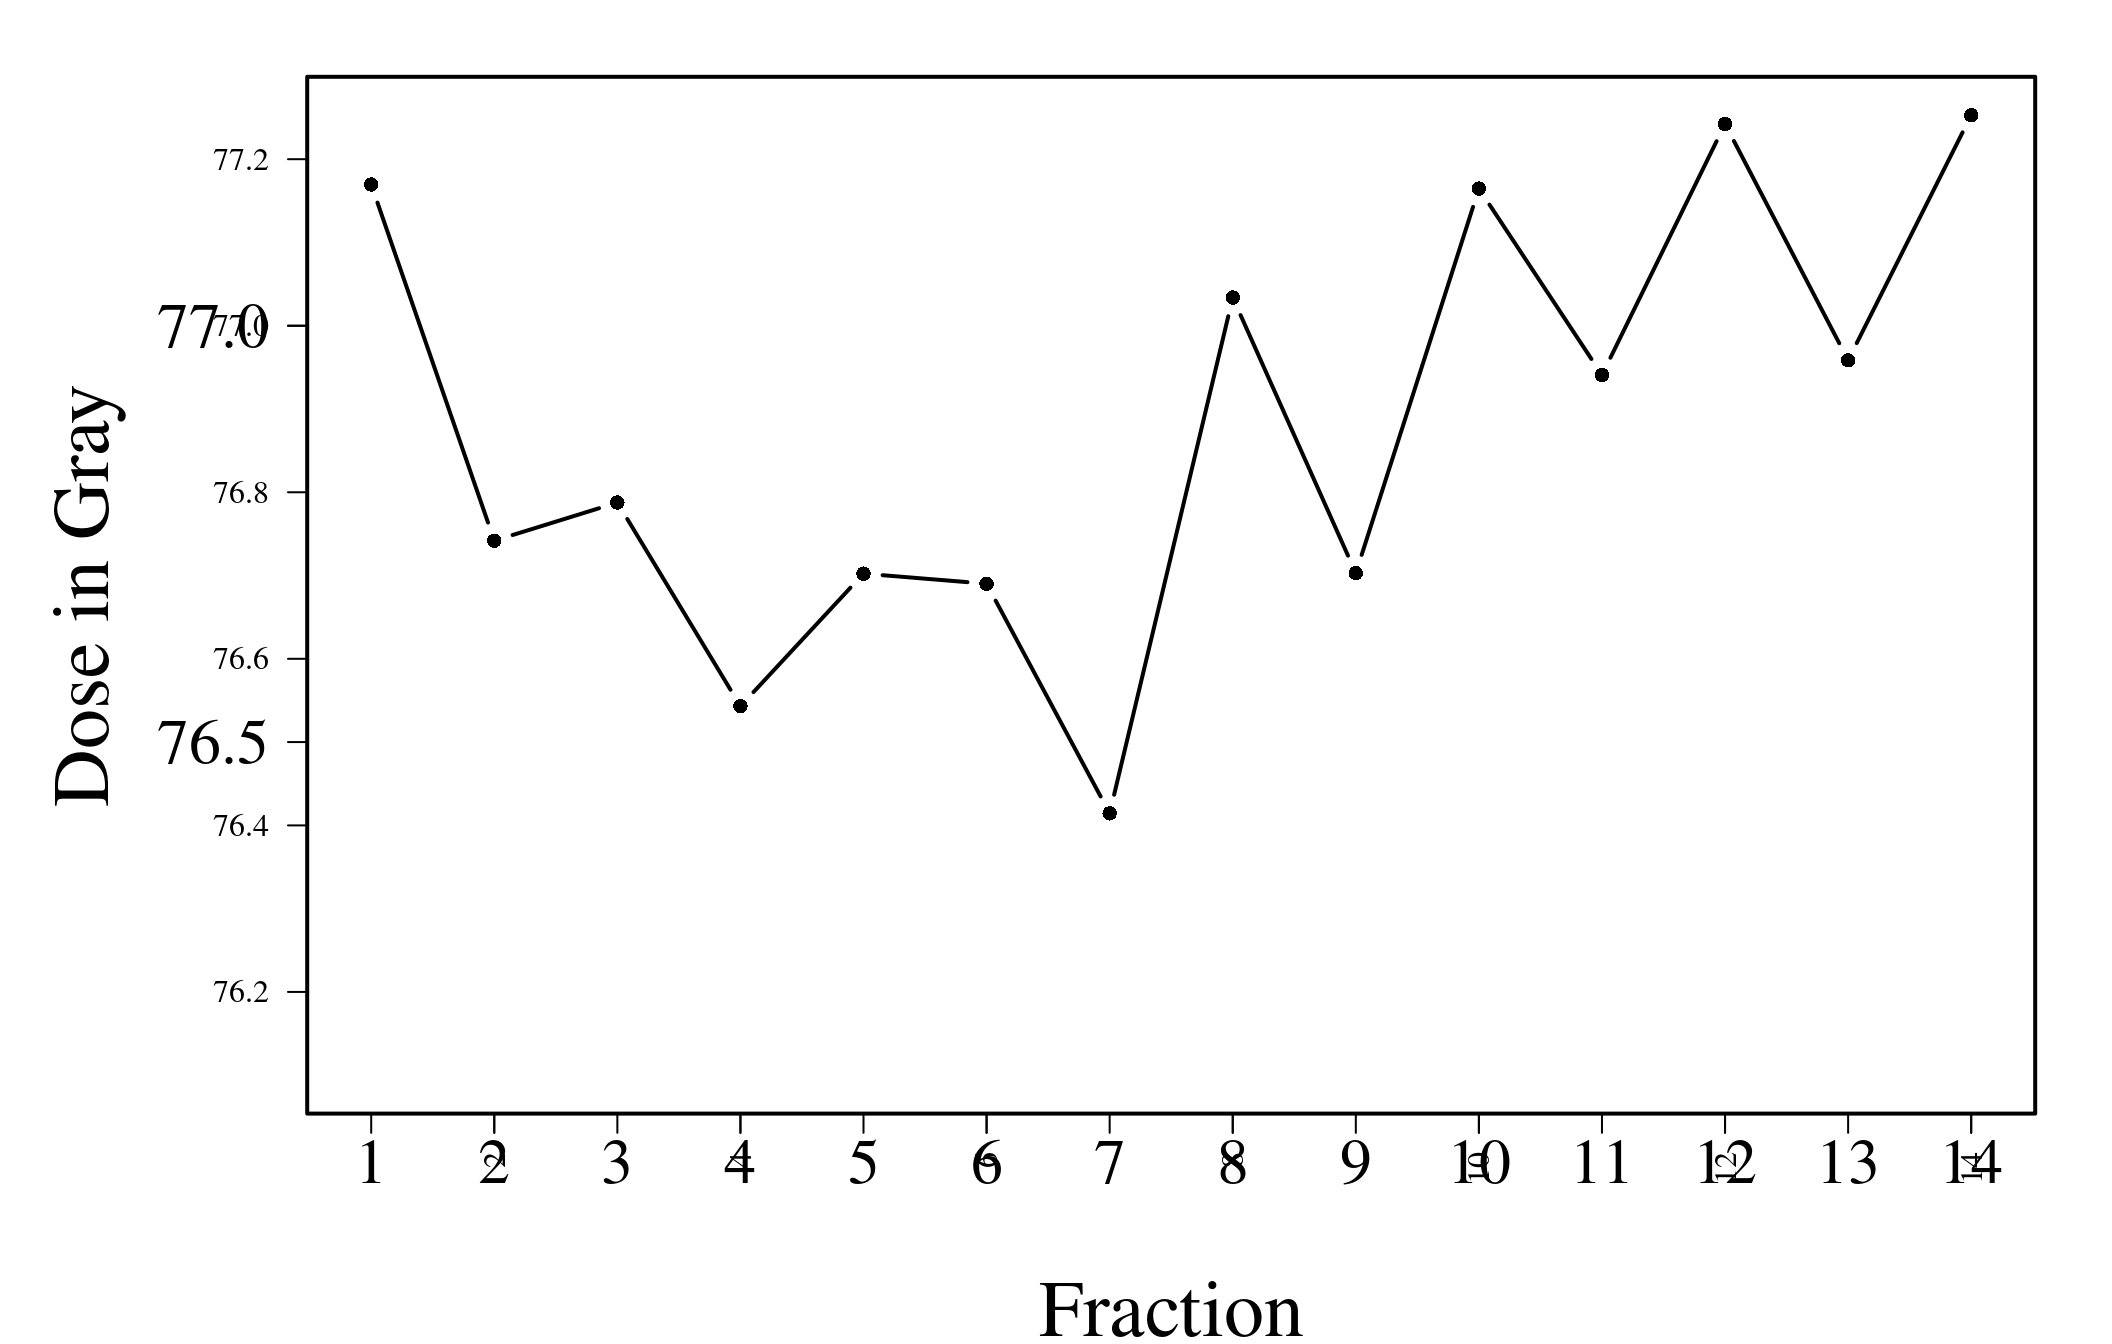
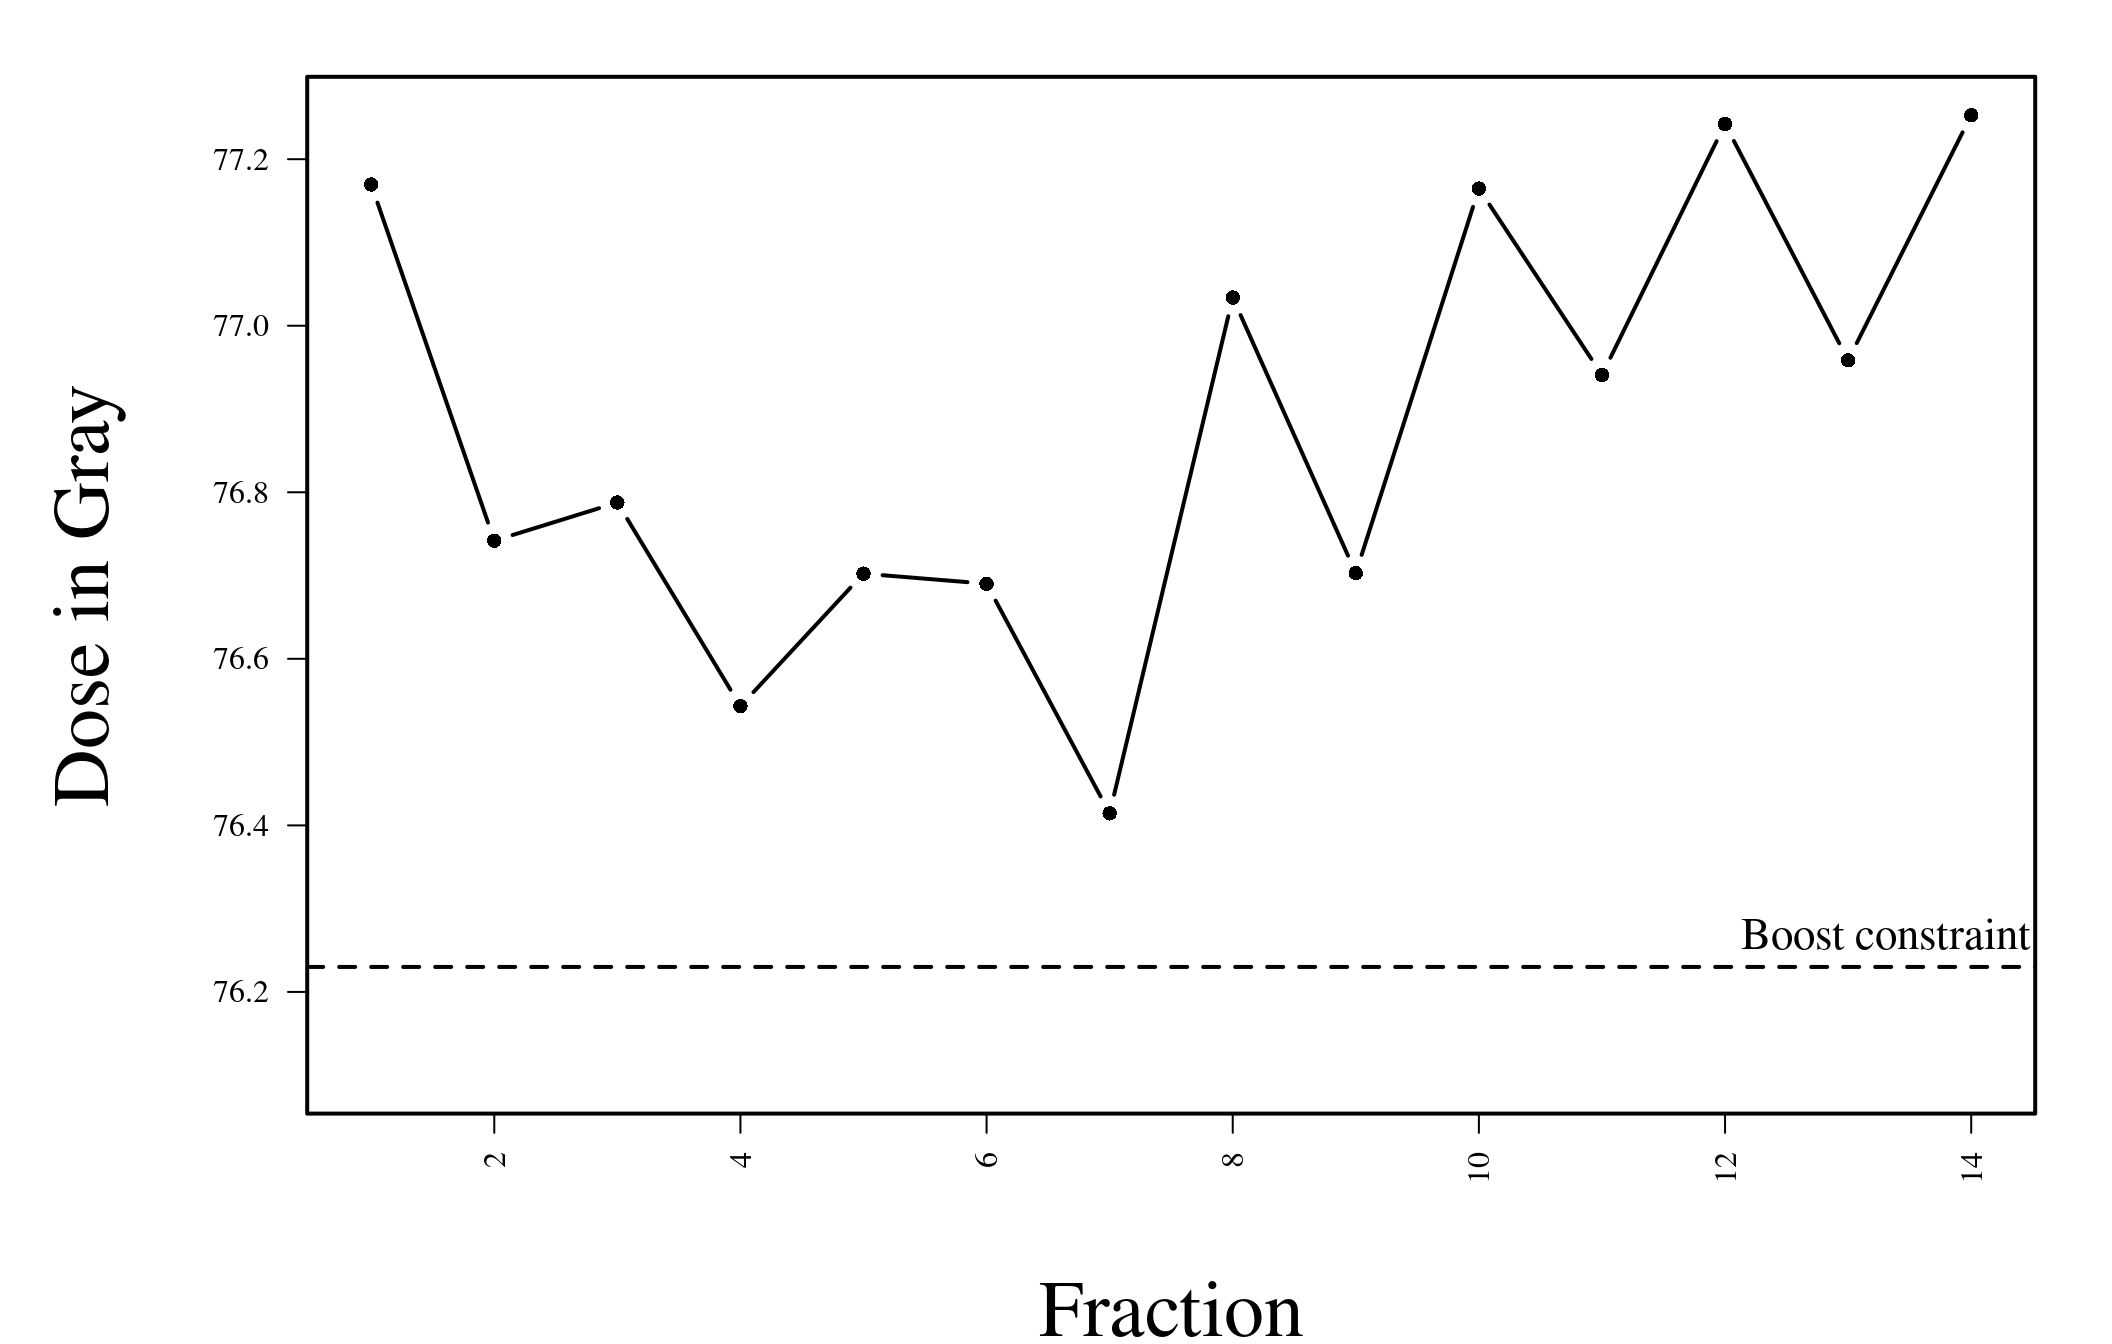
Build site.

diff --git a/docs/first-analysis.html b/docs/first-analysis.html
@@ -503,16 +503,16 @@ This reproducible <a href="http://rmarkdown.rstudio.com">R Markdown</a> analysis
 <div class="panel panel-default">
 <div class="panel-heading">
 <p class="panel-title">
-<a data-toggle="collapse" data-parent="#workflowr-checks" href="#strongRepositoryversionstrongahrefhttpsgithubcomdssrttnTesttree2dfbf327616c2e3b4ed0324bd10b553713eb8eabtargetblank2dfbf32a"> <span class="glyphicon glyphicon-ok text-success" aria-hidden="true"></span> <strong>Repository version:</strong> <a href="https://github.com/dssrttn/Test/tree/2dfbf327616c2e3b4ed0324bd10b553713eb8eab" target="_blank">2dfbf32</a> </a>
+<a data-toggle="collapse" data-parent="#workflowr-checks" href="#strongRepositoryversionstrongahrefhttpsgithubcomdssrttnTesttreeb44bab40c5f57c681cdd95fcc80be679ec5a2049targetblankb44bab4a"> <span class="glyphicon glyphicon-ok text-success" aria-hidden="true"></span> <strong>Repository version:</strong> <a href="https://github.com/dssrttn/Test/tree/b44bab40c5f57c681cdd95fcc80be679ec5a2049" target="_blank">b44bab4</a> </a>
 </p>
 </div>
[2 lines of base64/hex data omitted]
 <div class="panel-body">
 <p>
 Great! You are using Git for version control. Tracking code development and connecting the code version to the results is critical for reproducibility.
 </p>
 <p>
-The results in this page were generated with repository version <a href="https://github.com/dssrttn/Test/tree/2dfbf327616c2e3b4ed0324bd10b553713eb8eab" target="_blank">2dfbf32</a>. See the <em>Past versions</em> tab to see a history of the changes made to the R Markdown and HTML files.
+The results in this page were generated with repository version <a href="https://github.com/dssrttn/Test/tree/b44bab40c5f57c681cdd95fcc80be679ec5a2049" target="_blank">b44bab4</a>. See the <em>Past versions</em> tab to see a history of the changes made to the R Markdown and HTML files.
 </p>
 <p>
 Note that you need to be careful to ensure that all relevant files for the analysis have been committed to Git prior to generating the results (you can use <code>wflow_publish</code> or <code>wflow_git_commit</code>). workflowr only checks the R Markdown file, but you know if there are other scripts or data files that it depends on. Below is the status of the Git repository when the results were generated:
@@ -565,6 +565,40 @@ Message
 </tr>
 </thead>
 <tbody>
+<tr>
+<td>
+Rmd
+</td>
+<td>
+<a href="https://github.com/dssrttn/Test/blob/b44bab40c5f57c681cdd95fcc80be679ec5a2049/analysis/first-analysis.Rmd" target="_blank">b44bab4</a>
+</td>
+<td>
+Mein Vorname
+</td>
+<td>
+2020-06-23
+</td>
+<td>
+Verbesserungen kleinerer line plot
+</td>
+</tr>
+<tr>
+<td>
+html
+</td>
+<td>
+<a href="https://rawcdn.githack.com/dssrttn/Test/f09baf4fefa96f29b76b7dcd8f30e2a93c3262ff/docs/first-analysis.html" target="_blank">f09baf4</a>
+</td>
+<td>
+Mein Vorname
+</td>
+<td>
+2020-06-23
+</td>
+<td>
+Build site.
+</td>
+</tr>
 <tr>
 <td>
 Rmd
@@ -1207,32 +1241,9 @@ Mein Vorname
 </table>
 </div>
 </div>
-<pre class="r"><code>par(family=&quot;serif&quot;) # Schriftart
-par(lwd = 2)
-par(mar = c(6, 8, 2, 2)) # Abstände um den Plot. 2. Position y-Achse
-par(mgp=c(5,1,0)) # mpg: Abstand Label zu Achse
-plot(x, y, ylim=c(76.1, max(DIL_1$Mittelwert)),
-     xlab=&quot;Fraction&quot;, ylab=&quot;Dose in Gray&quot;, family=&quot;serif&quot;, cex = 1, # Größe der Punkte im plot
-    cex.lab=2.5, # Erläuterungen der Achsen
-   # cex.axis = 1.5, # Tickbezeichnungen
-    #axes = FALSE , 
-    pch=16, #main=&quot;Dosisverteilung DIL Mittelwert 1&quot;
-     type=&quot;b&quot;,
-     las = 2, # horizontale Markierung der Tick-Beschriftungen
-    )
-text(x=13.3, y = 75.8, labels=&quot;Boost constraint&quot;
-       #&quot;Dosisvorgabe Boost&quot;
-       , family=&quot;serif&quot;, cex = 1.4) 
-text(x=11.9, y = 80.2, labels=&quot;+5% deviation from boost constraint&quot;
-       #&quot;+5% Abweichung von Dosisvorgabe&quot;
-     , family=&quot;serif&quot;, cex = 1.4)
-axis(1, at=x, label=x, #tick=F
-     cex.axis=2 
-     )
-abline(a=76,23, b=0, lty=2)
-abline(a=80.04, b=0, lty=2)
-axis(2, at=seq(74,81,0.5), #tick=F,
-     las=2, cex.lab=8, cex.axis=2, family=&quot;serif&quot;)</code></pre>
+</div>
+<div id="kleinerer-line-plot" class="section level2">
+<h2>Kleinerer line plot</h2>
 <p><img src="figure/first-analysis.Rmd/unnamed-chunk-3-1.png" width="1056" style="display: block; margin: auto;" /></p>
 <p>
 <button type="button" class="btn btn-default btn-xs btn-workflowr btn-workflowr-fig" data-toggle="collapse" data-target="#fig-unnamed-chunk-3-1">
@@ -1256,6 +1267,17 @@ Date
 </tr>
 </thead>
 <tbody>
+<tr>
+<td>
+<a href="https://github.com/dssrttn/Test/blob/f09baf4fefa96f29b76b7dcd8f30e2a93c3262ff/docs/figure/first-analysis.Rmd/unnamed-chunk-3-1.png" target="_blank">f09baf4</a>
+</td>
+<td>
+Mein Vorname
+</td>
+<td>
+2020-06-23
+</td>
+</tr>
 <tr>
 <td>
 <a href="https://github.com/dssrttn/Test/blob/30b9a8c326428d8ac301a65326f6bbf97d44e59c/docs/figure/first-analysis.Rmd/unnamed-chunk-3-1.png" target="_blank">30b9a8c</a>
@@ -1334,6 +1356,17 @@ Date
 <tbody>
 <tr>
 <td>
+<a href="https://github.com/dssrttn/Test/blob/f09baf4fefa96f29b76b7dcd8f30e2a93c3262ff/docs/figure/first-analysis.Rmd/unnamed-chunk-4-1.png" target="_blank">f09baf4</a>
+</td>
+<td>
+Mein Vorname
+</td>
+<td>
+2020-06-23
+</td>
+</tr>
+<tr>
+<td>
 <a href="https://github.com/dssrttn/Test/blob/30b9a8c326428d8ac301a65326f6bbf97d44e59c/docs/figure/first-analysis.Rmd/unnamed-chunk-4-1.png" target="_blank">30b9a8c</a>
 </td>
 <td>
@@ -1384,6 +1417,43 @@ hist(DIL_1$Mittelwert,
 rug(jitter(DIL_1$Mittelwert))
 lines(density(DIL_1$Mittelwert), col=&quot;black&quot;, lwd=2)</code></pre>
 <p><img src="figure/first-analysis.Rmd/unnamed-chunk-5-1.png" width="672" style="display: block; margin: auto;" /></p>
+<p>
+<button type="button" class="btn btn-default btn-xs btn-workflowr btn-workflowr-fig" data-toggle="collapse" data-target="#fig-unnamed-chunk-5-1">
+Past versions of unnamed-chunk-5-1.png
+</button>
+</p>
+<div id="fig-unnamed-chunk-5-1" class="collapse">
+<div class="table-responsive">
+<table class="table table-condensed table-hover">
+<thead>
+<tr>
+<th>
+Version
+</th>
+<th>
+Author
+</th>
+<th>
+Date
+</th>
+</tr>
+</thead>
+<tbody>
+<tr>
+<td>
+<a href="https://github.com/dssrttn/Test/blob/f09baf4fefa96f29b76b7dcd8f30e2a93c3262ff/docs/figure/first-analysis.Rmd/unnamed-chunk-5-1.png" target="_blank">f09baf4</a>
+</td>
+<td>
+Mein Vorname
+</td>
+<td>
+2020-06-23
+</td>
+</tr>
+</tbody>
+</table>
+</div>
+</div>
 <pre class="r"><code>#cex.lab=1.5, cex.axis=1.5</code></pre>
 <p>Lorem ipsum</p>
 <br>
